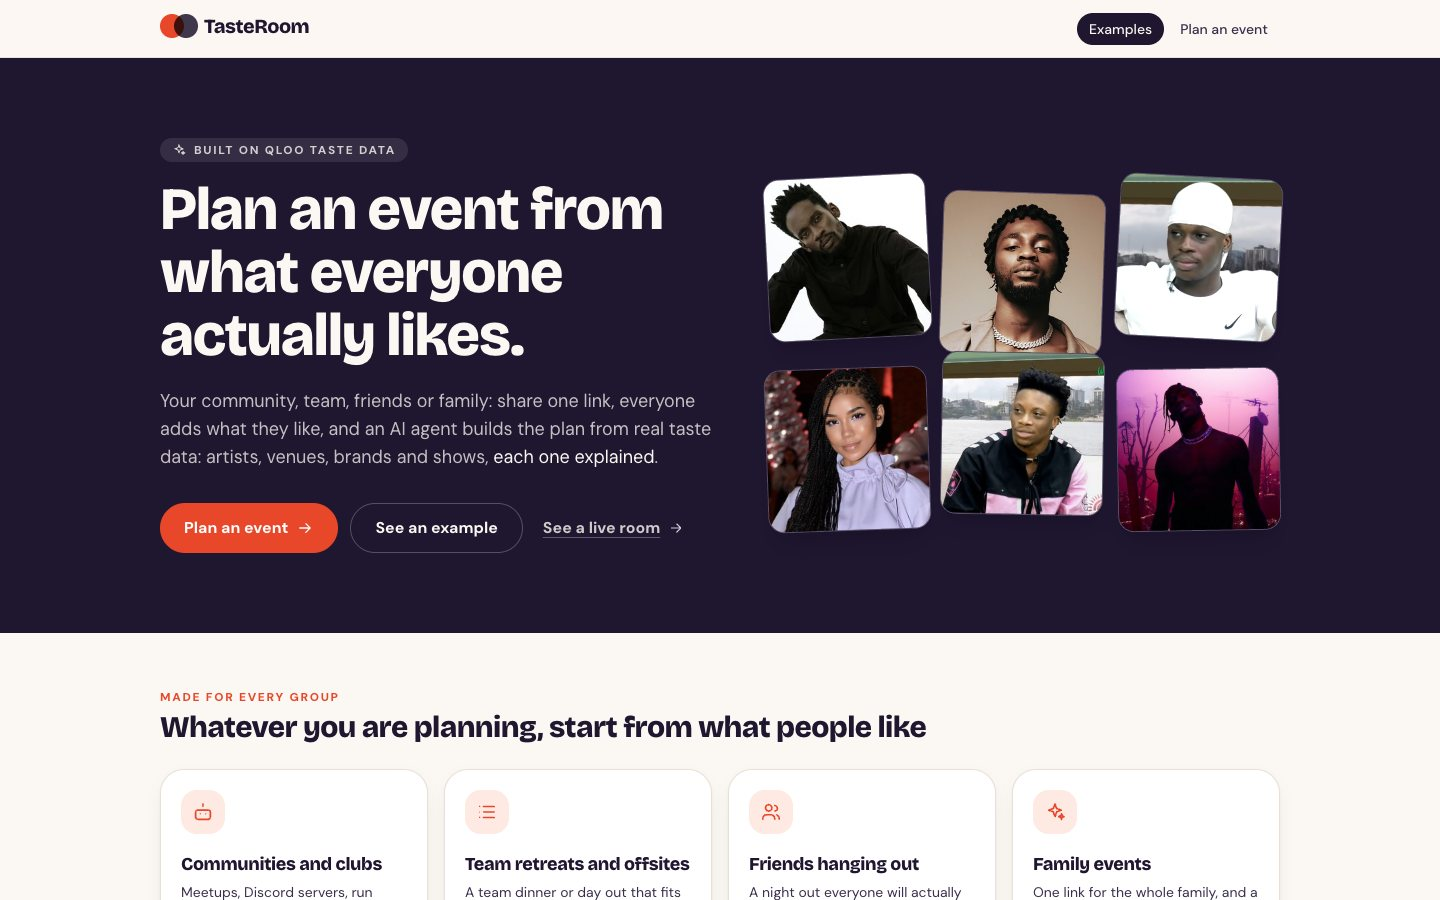
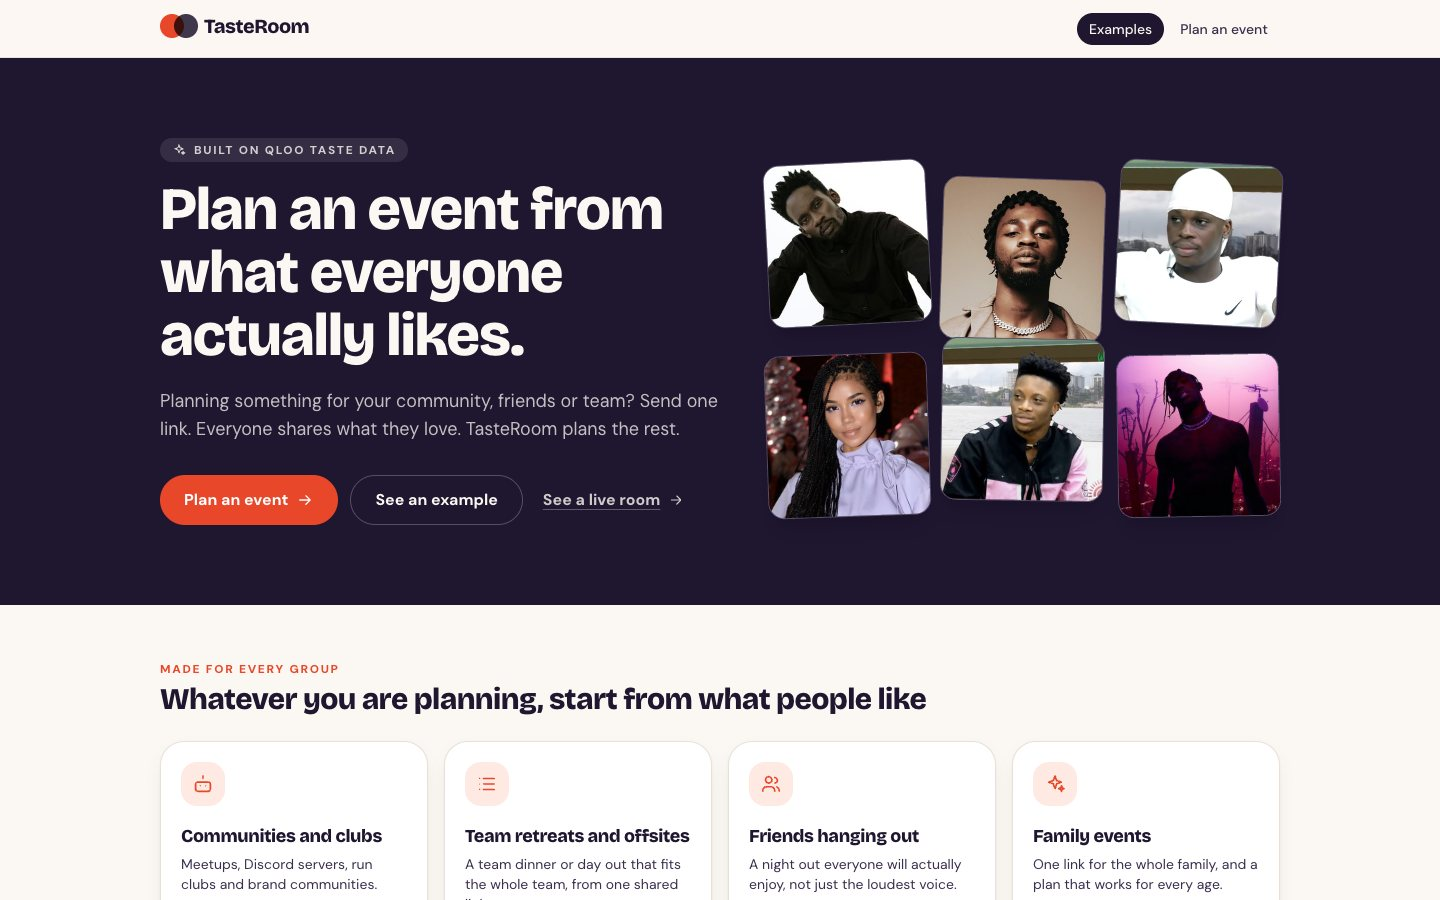
Landing hero: shorter supporting line
Planning something for your community, friends or team? Send one link.
Everyone shares what they love. TasteRoom plans the rest.

diff --git a/frontend/src/pages/Landing.tsx b/frontend/src/pages/Landing.tsx
@@ -83,8 +83,7 @@ export default function Landing() {
             </p>
             <h1 className="text-4xl font-extrabold leading-[1.05] sm:text-6xl">Plan an event from what everyone actually likes.</h1>
             <p className="mt-5 max-w-xl text-lg text-paper/75">
-              Your community, team, friends or family: share one link, everyone adds what they like, and an AI agent builds the plan from real taste data:
-              artists, venues, brands and shows, <em className="not-italic text-paper">each one explained</em>.
+              Planning something for your community, friends or team? Send one link. Everyone shares what they love. TasteRoom plans the rest.
             </p>
             <div className="mt-8 flex flex-wrap gap-3">
               <Link to="/build" className="inline-flex items-center gap-2 rounded-full bg-accent px-6 py-3 font-semibold text-white transition-colors hover:bg-[#ff6247]">
